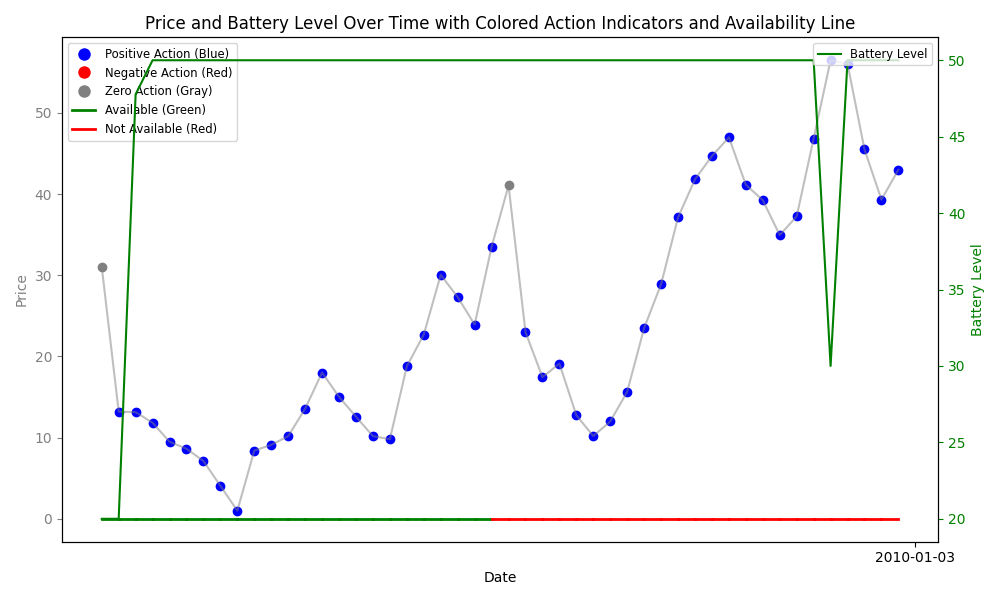
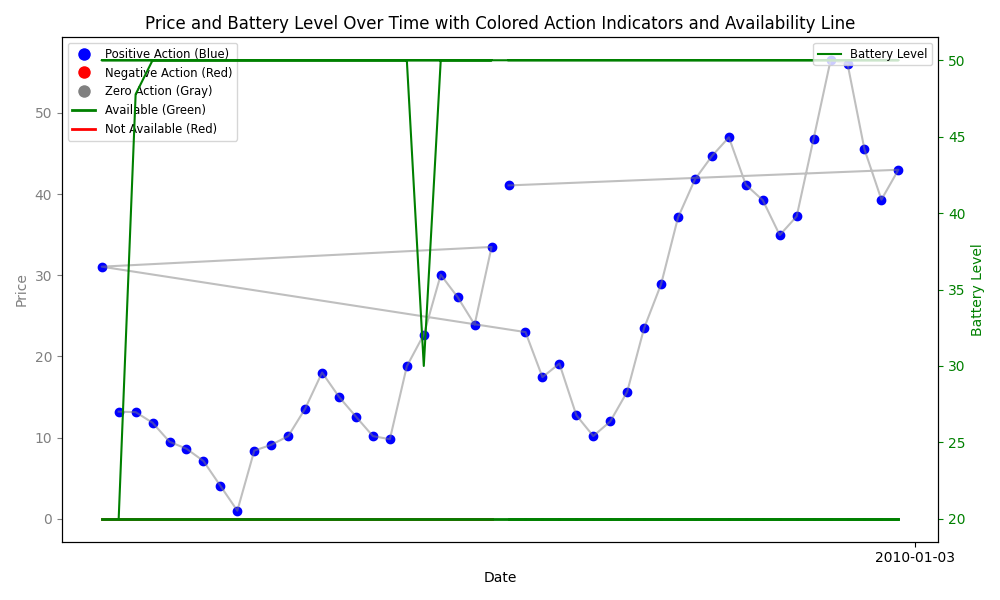
Changed back to older version.

diff --git a/ElectricCarEnv.py b/ElectricCarEnv.py
@@ -29,11 +29,11 @@ class ElectricCarEnv(gym.Env):
         self.action_space = spaces.Box(low=-self.max_power, high=self.max_power, dtype=np.float32)
 
         # Load electricity price data
-        self.data = pd.read_csv('data/train1_clean.csv')
+        self.data = pd.read_csv('data/train_clean.csv')
 
         # Initialize the state
         self.current_step = 0
-        self.time_of_day = 0
+        self.time_of_day = 1
 
     def step(self, action: float) -> Tuple[list, float, bool, dict]:
         """ Implements the step function for the environment.
@@ -47,11 +47,11 @@ class ElectricCarEnv(gym.Env):
         # Update the time
         self.time_of_day += 1
         # Check if the day is over
-        if self.time_of_day > 23:
+        if self.time_of_day > 24:
             # Update the current step
             self.current_step += 1
-            # Reset the time of day to 0AM
-            self.time_of_day = 0
+            # Reset the time of day to 1AM
+            self.time_of_day = 1
             # Randomly decide if the car is available for the new day
             self.car_available = np.random.choice([True, False])
         
@@ -94,7 +94,7 @@ class ElectricCarEnv(gym.Env):
         # Start with a minimum battery level
         self.battery_level = self.min_required_battery
         # Reset the time of day and current step
-        self.time_of_day = 0
+        self.time_of_day = 1
         self.current_step = 0
         # Generate a random car availability
         self.car_available = np.random.choice([True, False])

diff --git a/baseline.py b/baseline.py
@@ -117,7 +117,7 @@ env = ElectricCarEnv()
 # Initialize the agent
 test_agent, rl = process_command(env)
 # Load validation data into the environment
-env.data = pd.read_csv('data/validate1_clean.csv') 
+env.data = pd.read_csv('data/validate_clean.csv') 
 
 # Test the agent
 test_performance, log_env = validate_agent(env, test_agent, rl)

diff --git a/q-learning_train.py b/q-learning_train.py
@@ -28,7 +28,7 @@ agent = QLearningAgent(state_bins, action_bins)
 
 # Load validation data into the environment
 test_env = ElectricCarEnv()
-test_env.data = pd.read_csv('data/validate1_clean.csv') 
+test_env.data = pd.read_csv('data/validate_clean.csv') 
 test_agent = QLearningAgent(state_bins, action_bins) 
 
 # Training Loop

diff --git a/data/data_vis.py b/data/data_vis.py
@@ -191,8 +191,6 @@ def hourly_candlestick_format(df: pd.DataFrame) -> pd.DataFrame:
     
     return hourly_df[['Open', 'High', 'Low', 'Close']]
 
-
-
 def candlestick_hourly(ohlc: pd.DataFrame, description: str, ema_spans: List[int]) -> None:
     """Plot an hourly candlestick chart of prices with EMAs.
 
